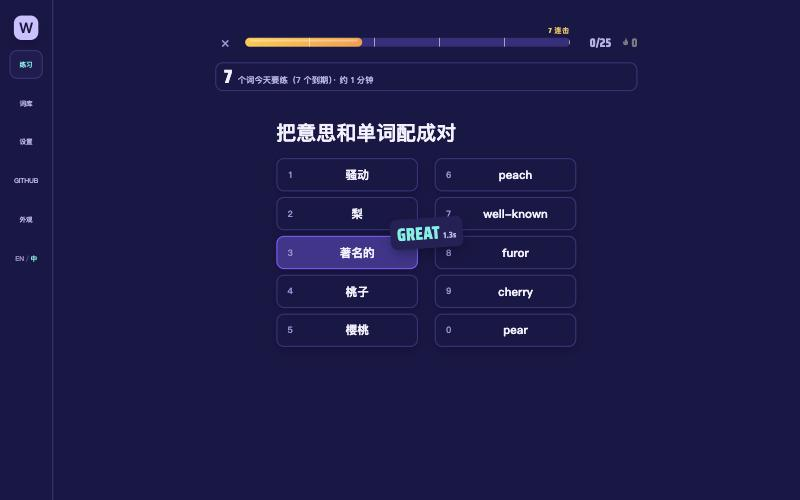
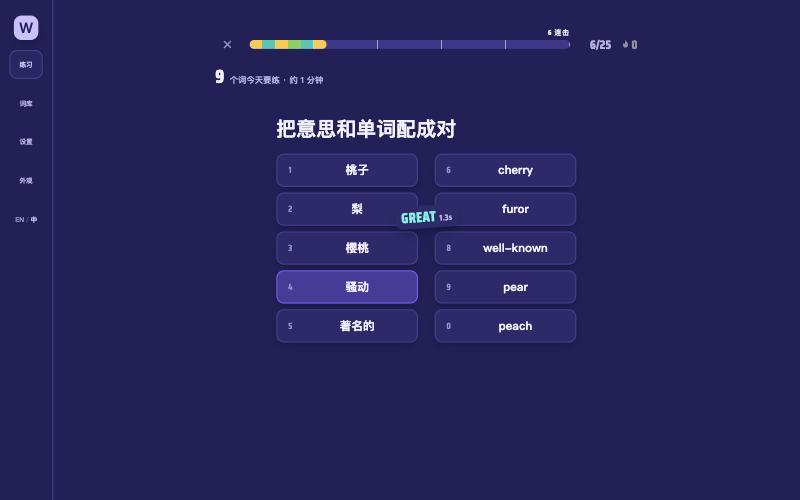
fix(design): review pass leftovers (nav ink, no forced caps, vignette back, gold = PERFECT only, quicker judgement)

diff --git a/vocabulary-match.html b/vocabulary-match.html
@@ -61,6 +61,7 @@
       --red-ink: #ff8fb0;
       --yellow: #ffc933;
       --yellow-ink: #ffd666;
+      --ember-ink: #ffa45c;
       --primary: #c9c1ff;
       --primary-dark: #a99cff;
       --on-primary: #24205a;
@@ -102,6 +103,7 @@
       --blue-ink: #5a3fe0;
       --red-ink: #c0245a;
       --yellow-ink: #8a5a00;
+      --ember-ink: #b4530f;
       --primary: #2b2470;
       --primary-dark: #1d1856;
       --on-primary: #ffffff;
@@ -228,7 +230,6 @@
       padding: 6px 2px;
       font-size: 12px;
       font-weight: 800;
-      text-transform: uppercase;
       text-align: center;
       line-height: 1.12;
       letter-spacing: -0.02em;
@@ -353,11 +354,11 @@
       align-items: baseline;
       gap: 6px;
       font-family: var(--num-font);
-      font-size: 32px;
+      font-size: 26px;
       font-weight: 800;
       letter-spacing: 0.02em;
       white-space: nowrap;
-      padding: 2px 12px;
+      padding: 0 10px;
       border-radius: 12px;
       background: var(--panel);
       box-shadow: 0 10px 24px -8px var(--card-shadow);
@@ -409,7 +410,7 @@
     }
 
     .streak-chip.lit {
-      color: var(--yellow-ink);
+      color: var(--ember-ink);
       filter: none;
       opacity: 1;
     }
@@ -481,6 +482,17 @@
     @media (prefers-reduced-motion: reduce) {
       .result-cell, .completion.show .completion-badge, .match-card.correct { animation: none; }
       .progress-fill { transition: none; }
+    }
+
+    body::after {
+      content: "";
+      position: fixed;
+      inset: 0;
+      z-index: 30;
+      pointer-events: none;
+      background: radial-gradient(ellipse at 50% 55%, transparent 45%, rgba(8, 6, 32, 0.2) 100%);
+      opacity: 0;
+      transition: opacity 0.8s ease;
     }
 
     body.focus-mode::after {
@@ -1545,7 +1557,7 @@
     /* The set's result, as a rhythm game ends a song: CLEAR / FULL COMBO / TIME UP. */
     .completion-badge {
       margin: 18px auto 8px;
-      color: var(--yellow-ink);
+      color: var(--primary);
       font-family: var(--num-font);
       font-size: 64px;
       font-weight: 800;
@@ -1848,7 +1860,7 @@
     }
     .lang-toggle .lang-opt.on {
       opacity: 1;
-      color: var(--green-ink);
+      color: var(--primary);
     }
     .lang-toggle .sep {
       opacity: .35;

diff --git a/js/fx.js b/js/fx.js
@@ -167,7 +167,7 @@
       { transform: "translate(-50%, -100%) scale(1.12) rotate(-4deg)", opacity: 1, offset: 0.22 },
       { transform: "translate(-50%, -100%) scale(1) rotate(-4deg)", opacity: 1, offset: 0.7 },
       { transform: "translate(-50%, -130%) scale(0.96) rotate(-4deg)", opacity: 0 }
-    ], { duration: 760, easing: "cubic-bezier(.2,.8,.2,1)" });
+    ], { duration: 520, easing: "cubic-bezier(.2,.8,.2,1)" });
   }
 
   /** Sets el's text; changed characters roll up into place (a scoreboard, not a jump). */

diff --git a/service-worker.js b/service-worker.js
@@ -1,4 +1,4 @@
-const CACHE_NAME = "word-snap-v55";
+const CACHE_NAME = "word-snap-v56";
 const APP_SHELL = [
   "./",
   "./index.html",
